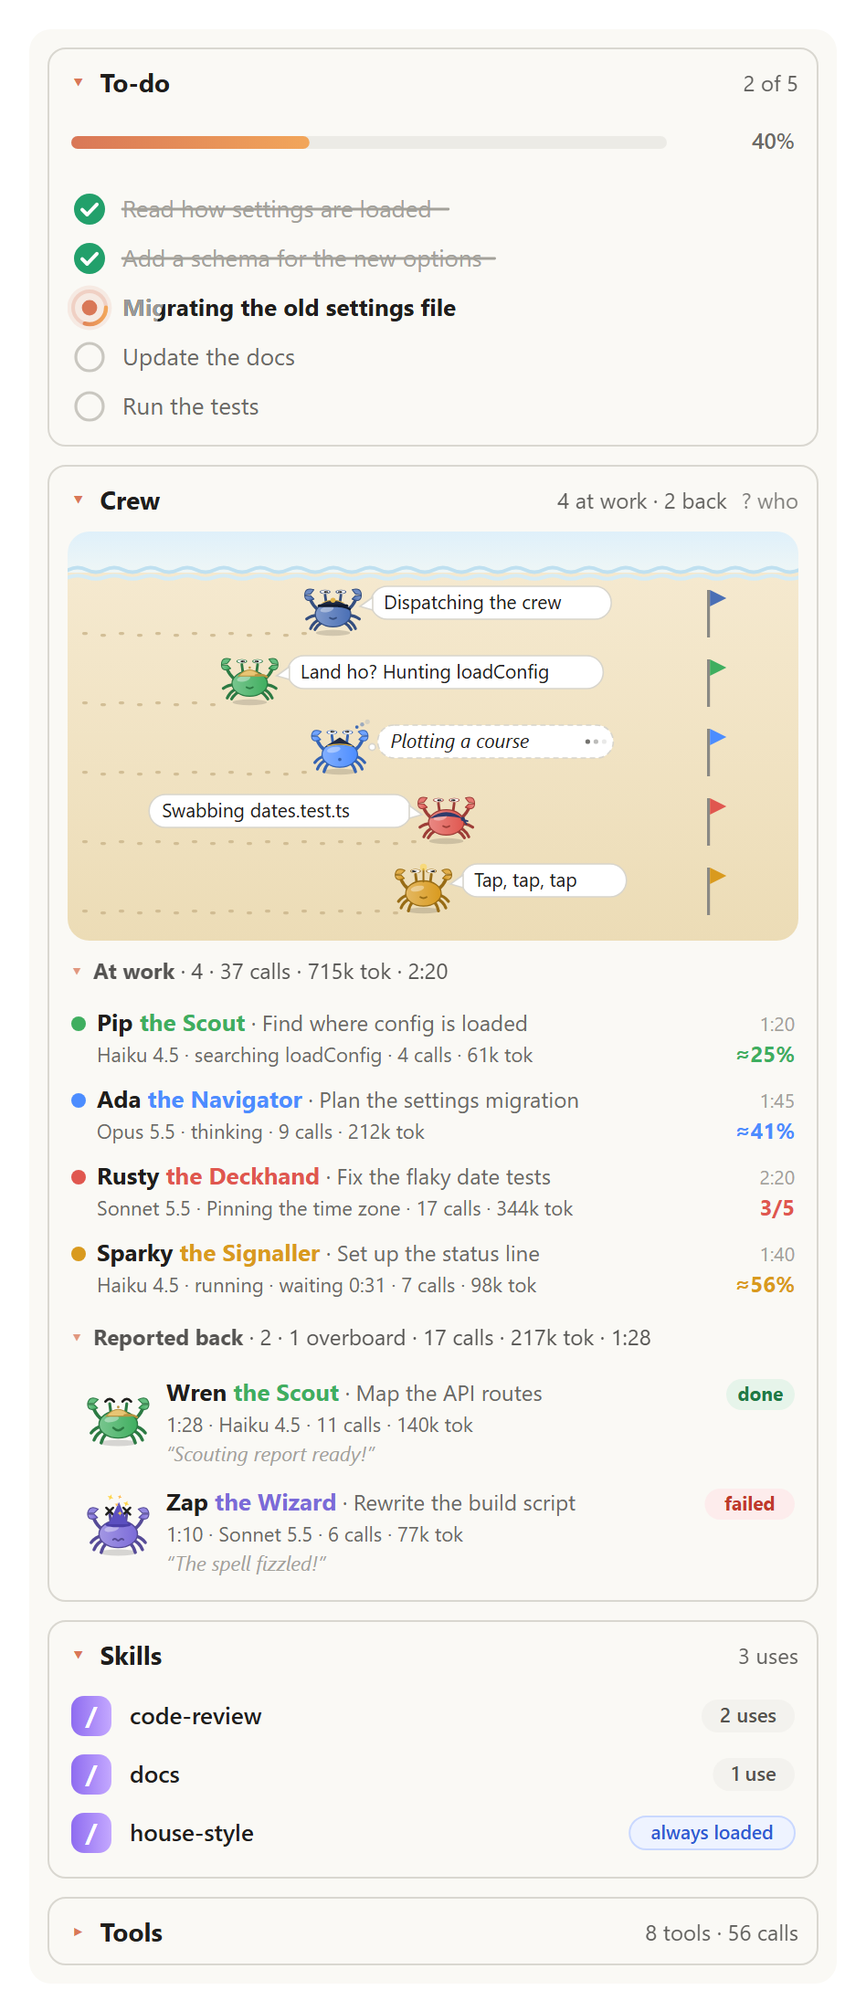
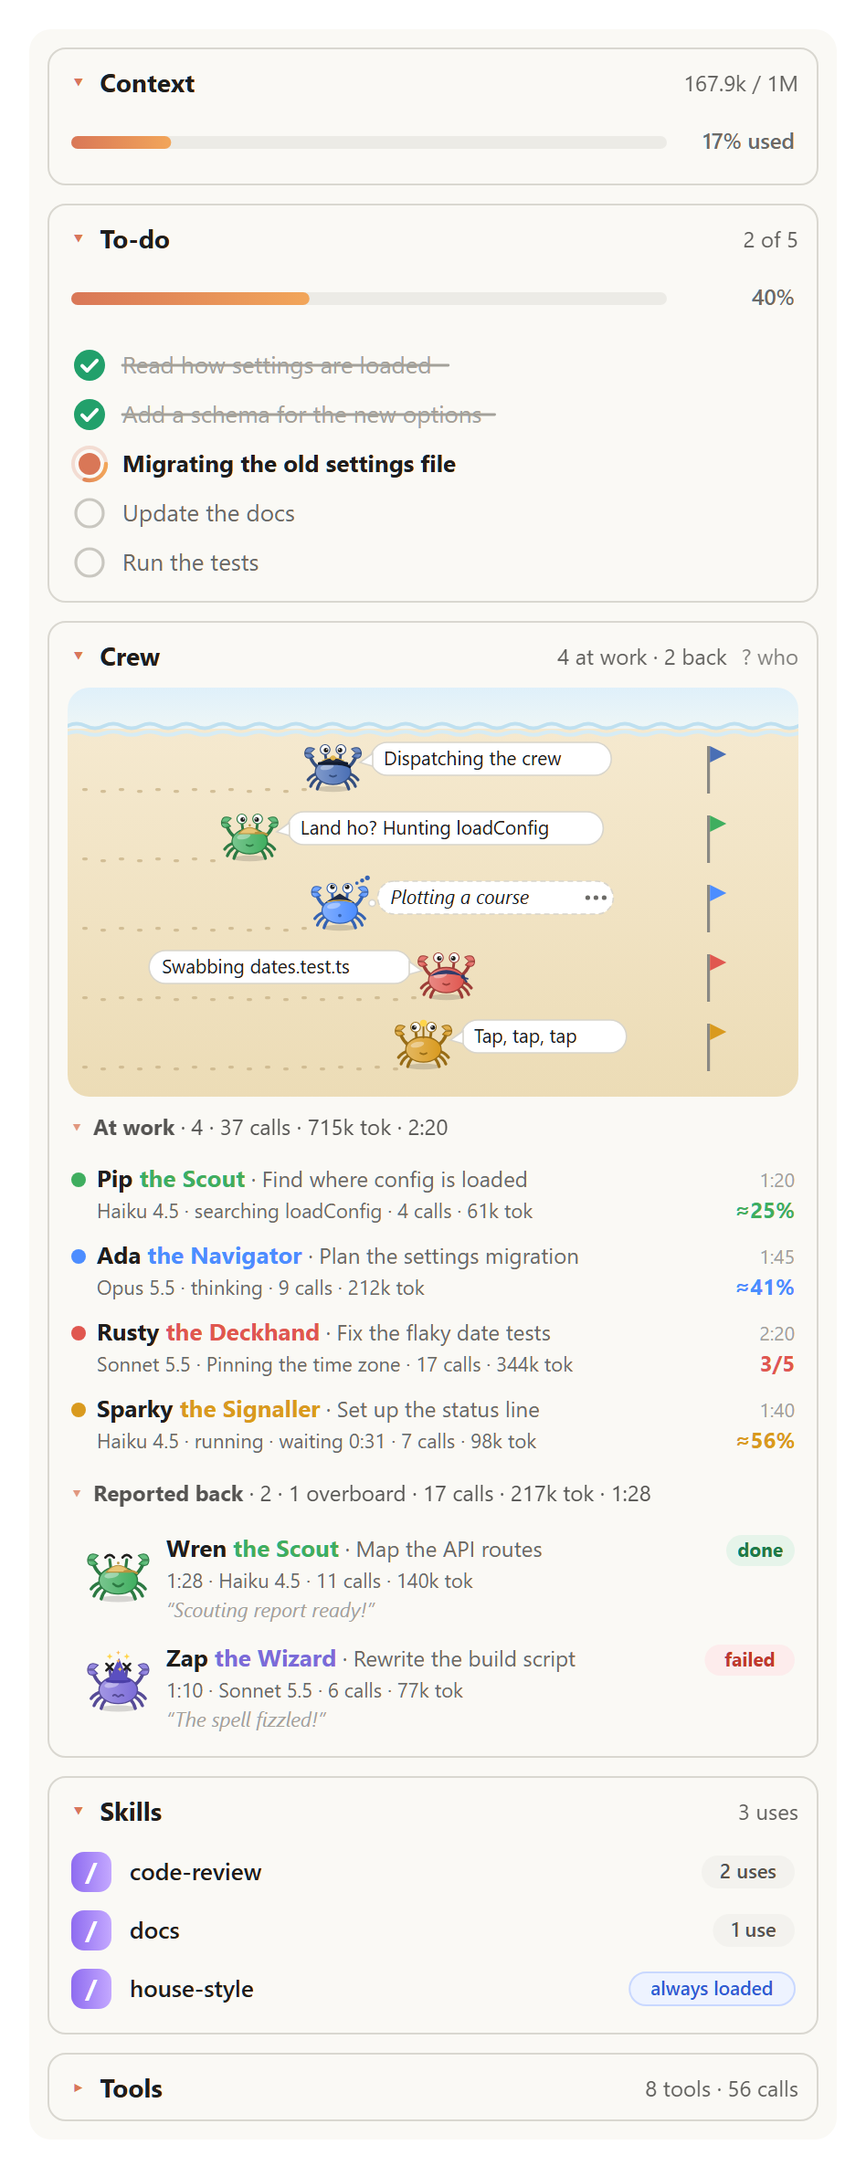
session-lens: a Context section above To-do (0.6.0)
How full the context window is, as the status line reads it: tokens of
the window by the title (167.9k / 1M) and a bar like the to-do list's
with the share used (17% used), grown from the last reading. Read with
$.session.usage() (no breakdown, so free) at session start, after each
model request of the main conversation, when /lens opens the pane and
after /clear. The marketplace entry, root README and README describe
it, and the README's pane screenshot shows it.

Changed region(s): [[0.0612, 0.0309, 0.9483, 0.9882], [0.8259, 0.0309, 0.9177, 0.1544], [0.7954, 0.0309, 0.8259, 0.0618]]

diff --git a/plugins/session-lens/hooks/register.tsx b/plugins/session-lens/hooks/register.tsx
@@ -1,7 +1,7 @@
 import { atom, read, update } from 'claude-code'
 import type { EngineInterface, Register, Timer } from 'claude-code'
 
-import type { LensActivity, LensCaptain, LensCrab, LensSection, LensSort, LensView } from '../types'
+import type { LensActivity, LensCaptain, LensContext, LensCrab, LensSection, LensSort, LensView } from '../types'
 import { LINGER_MS, activityOf, characterKeyOf, crewNameOf, detailOf, outcomeOf, todoPatch, usageTokens, withChange } from './crew'
 import {
   DEFAULT_VIEW,
@@ -44,6 +44,16 @@ const crewBandSince = atom({ plugin: 'session-lens', key: 'crewBandSince' } as c
 const IDLE: LensCaptain = { isBusy: false, activity: 'other', detail: '', lastActiveAt: 0 }
 const captain = atom({ plugin: 'session-lens', key: 'captain' } as const, IDLE)
 const raceSince = atom({ plugin: 'session-lens', key: 'raceSince' } as const, 0)
+const context = atom({ plugin: 'session-lens', key: 'context' } as const, null as LensContext | null)
+
+/** Reads how full the context window is (free: no breakdown); the bar grows from the reading before. */
+async function readUsage($: EngineInterface): Promise<void> {
+  const c = (await $.session.usage()).context
+  if (c.tokens === undefined || !c.window) return
+  const tokens = c.tokens
+  const at = await $.clock.now()
+  await update($, context, cur => (cur && cur.tokens === tokens && cur.window === c.window ? cur : { tokens, window: c.window, before: cur?.tokens ?? 0, at }))
+}
 const planRows = atom({ plugin: 'session-lens', key: 'planRows' } as const, [] as string[])
 
 /** The plan tools whose rows the transcript draws: the lens's To-do shows the same list. */
@@ -207,6 +217,7 @@ async function startOver($: EngineInterface): Promise<void> {
   await update($, crew, () => ({}))
   await update($, isSeeded, () => true)
   await readContext($)
+  await readUsage($)
 }
 
 /** Opens the lens at its crew: the pane, with the Crew section unfolded if it was folded. */
@@ -234,6 +245,7 @@ export const register: Register = (on, options) => {
       }),
     )
     await safely(() => loadLayout($))
+    void safely(() => readUsage($))
     void safely(() => seed($))
     void safely(() => readContext($))
     // While a crab works, a redraw now and then: one left without a call for a while is drawn waiting.
@@ -298,6 +310,8 @@ export const register: Register = (on, options) => {
       await touchCrab($, agentId, () => ({ activity: 'think', detail: '', lastActiveAt: at }))
     })
     const result = yield* next(e)
+    // Each answered request of the main conversation moves the context meter.
+    if (!agentId) await safely(() => readUsage($))
     const usage = result.usage
     if (agentId && usage)
       await safely(() => touchCrab($, agentId, m => ({ model: usage.model || m.model, tokens: (m.tokens ?? 0) + usageTokens(usage), steps: (m.steps ?? 0) + 1 })))
@@ -401,6 +415,7 @@ export const register: Register = (on, options) => {
     }
     await openPane($)
     void safely(() => readContext($))
+    void safely(() => readUsage($))
     return { text: 'Session lens opened.' }
   }).catch(() => ({ text: 'The session lens could not open just now.' }))
 
@@ -501,6 +516,7 @@ export const register: Register = (on, options) => {
       moves: await read($, moves),
       crew: await read($, crew),
       captain: await read($, captain),
+      context: await read($, context),
       raceSince: await read($, raceSince),
       showQuips: isQuipsOn,
       // Read so the timer's tick redraws the pane; the drawing itself goes by the clock.

diff --git a/plugins/session-lens/tests/session-lens.test.ts b/plugins/session-lens/tests/session-lens.test.ts
@@ -5,7 +5,7 @@ import type { On, RenderElement } from 'claude-code'
 import { skillListSvg, stepSvg, toolListSvg } from '../hooks/art'
 import { bandSvg, beachSvg, crewListSvg, legendSvg } from '../hooks/crabs'
 import { BASE_MARK, characterKeyOf, crabMeta, crewNameOf, crewOrder, crewSummary, duration, legendOf, listTotals, modelName, outcomeOf, poseOf, progressOf, quipOf, tokensLabel, withChange } from '../hooks/crew'
-import { DEFAULT_LAYOUT, DESKTOP_PLAN, DESKTOP_WRAP_UP, EMPTY_PLAN, countTool, groupLabel, listOrders, markAlways, movesAfter, parseLayout, planAfter, skillOfPath, stampSteps, toolGroups, toolRows } from '../hooks/track'
+import { DEFAULT_LAYOUT, DESKTOP_PLAN, contextPercent, contextSize, DESKTOP_WRAP_UP, EMPTY_PLAN, countTool, groupLabel, listOrders, markAlways, movesAfter, parseLayout, planAfter, skillOfPath, stampSteps, toolGroups, toolRows } from '../hooks/track'
 import type { LensCrab, LensPlan, LensTool } from '../types'
 
 const PANE = {
@@ -1194,6 +1194,55 @@ describe('the showQuips setting', () => {
       expect(await shows(ui, /Pip/)).toBe(true)
       expect(await shows(ui, /“/)).toBe(false)
       expect(await shows(ui, /Pip: /)).toBe(false)
+      await ui.unmount()
+    }
+  })
+})
+
+// ---------- the context window ----------
+
+describe('the context window', () => {
+  test('sizes read like the status line’s: 167.9k, 1M, 200k; the share as a whole percentage', async () => {
+    expect([contextSize(167_900), contextSize(1_000_000), contextSize(200_000), contextSize(940)]).toEqual(['167.9k', '1M', '200k', '940'])
+    expect(contextPercent(167_900, 1_000_000)).toBe(17)
+  })
+
+  test('a section above To-do: tokens of the window by its title, a bar of the share used; it folds', async ($, on) => {
+    mock.clock(on, { now: 10_000 })
+    mock.store(on)
+    let tokens: number | undefined
+    on('session.usage', () => ({ value: { startedAt: 0, context: { tokens, window: 1_000_000 }, rateLimits: [] } }) as never)
+    on('turn.step', async function* (_, e) {
+      return { turnId: e.turnId, index: e.index, answer: '', toolUses: [] } as never
+    })
+    const step = async () => {
+      const stream = $.turn.step({ turnId: 'turn-1', index: 1, model: 'claude-opus-5-5', messageCount: 3 } as never)
+      for await (const _ of stream) {
+        // Nothing streams beneath the test.
+      }
+      await stream.result
+    }
+    // No reading yet: the title alone.
+    await step()
+    for (const surface of SURFACES) {
+      const ui = await $.ui.mount({ ...PANE, surface })
+      expect(await ui.find({ key: 'sec-context' })).toBeDefined()
+      expect(await shows(ui, /% used/)).toBe(false)
+      await ui.unmount()
+    }
+    // A request of the main conversation answered: the meter reads the window.
+    tokens = 167_900
+    await step()
+    for (const surface of SURFACES) {
+      const ui = await $.ui.mount({ ...PANE, surface })
+      expect(await shows(ui, /167\.9k \/ 1M/)).toBe(true)
+      expect(await shows(ui, /17% used/)).toBe(true)
+      // Above To-do.
+      const keys = (await ui.findAll({})).map(f => (f as { key?: string }).key).filter(k => k === 'sec-context' || k === 'sec-todo')
+      expect(keys[0]).toBe('sec-context')
+      await ui.press({ key: 'sec-context' })
+      expect(await shows(ui, /17% used/)).toBe(false)
+      await ui.press({ key: 'sec-context' })
       await ui.unmount()
     }
   })

diff --git a/plugins/session-lens/hooks/view.tsx b/plugins/session-lens/hooks/view.tsx
@@ -2,11 +2,11 @@
 // The desktop draws each row as an animated SVG; the terminal draws the same rows in text.
 import type { Elements, RenderElement } from 'claude-code'
 
-import type { LensCaptain, LensCrab, LensMove, LensPlan, LensSection, LensSkill, LensSort, LensTool, LensView } from '../types'
-import { ACCENT, barShare, groupTileSvg, groupTotalSvg, hueOf, skillListSvg, stepSvg, todoProgressSvg, toolListSvg } from './art'
+import type { LensCaptain, LensContext, LensCrab, LensMove, LensPlan, LensSection, LensSkill, LensSort, LensTool, LensView } from '../types'
+import { ACCENT, barShare, contextSvg, groupTileSvg, groupTotalSvg, hueOf, skillListSvg, stepSvg, todoProgressSvg, toolListSvg } from './art'
 import { bandSvg, beachSvg, crewListSvg, legendSvg } from './crabs'
 import { CAPTAIN_NAME, captainQuip, characterOf, crabMeta, crewLists, crewSummary, duration, isOnBeach, legendOf, listTotals, progressLabel, progressOf, quipOf } from './crew'
-import { doneOf, isGroupOpen, plural, skillList, toolGroups, toolRows } from './track'
+import { contextPercent, contextSize, doneOf, isGroupOpen, plural, skillList, toolGroups, toolRows } from './track'
 import type { ToolGroup, ToolRow } from './track'
 
 type UI = Elements['terminal'] | Elements['desktop'] | Elements['vscode'] | Elements['mobile']
@@ -40,6 +40,8 @@ export type Ctx = {
   crew: Record<string, LensCrab>
   /** The main thread, played by the captain. */
   captain: LensCaptain
+  /** How full the context window is; null until the first reading. */
+  context: LensContext | null
   /** When the current race began: the lists show its crabs alone. */
   raceSince: number
   /** The crabs say their lines: bubbles on the beach, last lines in the lists (the `showQuips` setting). */
@@ -100,6 +102,33 @@ function section(ctx: Ctx, id: LensSection, title: string, right: RenderElement 
       {rows.length ? rows : null}
     </Box>
   )
+}
+
+// ---------- context ----------
+
+/** How full the context window is: tokens used of the window by the title, and a bar of the share used. */
+function contextSection(ctx: Ctx): RenderElement {
+  const { Box, Text } = ctx.ui
+  const c = ctx.context
+  const right = c ? `${contextSize(c.tokens)} / ${contextSize(c.window)}` : null
+  return section(ctx, 'context', 'Context', right, () => {
+    if (!c) return []
+    if (ctx.isPictured) {
+      const w = rowPixels(ctx.columns)
+      return [picture(ctx, 'context-bar', contextSvg(w, c.tokens, c.window, c.before, latest(c.at, sectionAt(ctx, 'context')), ctx.now), w)!]
+    }
+    const share = Math.min(1, c.tokens / Math.max(1, c.window))
+    const bar = cells(share, Math.max(8, ctx.columns - 16))
+    return [
+      <Box key="context-bar" flexDirection="row" gap={1}>
+        <Text>
+          <Text color={ACCENT}>{bar.on}</Text>
+          <Text dimColor>{bar.off}</Text>
+        </Text>
+        <Text dimColor>{`${contextPercent(c.tokens, c.window)}% used`}</Text>
+      </Box>,
+    ]
+  })
 }
 
 // ---------- to-do ----------
@@ -466,6 +495,7 @@ export function paneView(ctx: Ctx): RenderElement {
   const { Box } = ctx.ui
   return (
     <Box flexDirection="column" gap={1}>
+      {contextSection(ctx)}
       {todoSection(ctx)}
       {crewSection(ctx)}
       {skillsSection(ctx)}

diff --git a/plugins/session-lens/types/index.d.ts b/plugins/session-lens/types/index.d.ts
@@ -51,7 +51,10 @@ export type LensSkill = {
 export type LensMove = { from: string[]; to: string[]; at: number }
 
 /** The pane's sections, and the two lists inside the crew (`crewWork`, `crewBase`), each folding on its own. */
-export type LensSection = 'todo' | 'crew' | 'crewWork' | 'crewBase' | 'skills' | 'tools'
+export type LensSection = 'context' | 'todo' | 'crew' | 'crewWork' | 'crewBase' | 'skills' | 'tools'
+
+/** How full the context window is, as the status line reads it, and the reading before: the bar grows from there. */
+export type LensContext = { tokens: number; window: number; before: number; at: number }
 export type LensSort = 'count' | 'name' | 'recent'
 
 /** What a crab was last seen doing, from its last call or model request. */
@@ -145,6 +148,8 @@ declare module 'claude-code' {
       crew: Record<string, LensCrab>
       /** The main thread, always on the beach. */
       captain: LensCaptain
+      /** The context window's last reading; null until the first. */
+      context: LensContext | null
       /**
        * When the current race began: a crab set out with no one at work. The crew lists show the crabs of
        * this race alone, so the list of those back starts empty with each race.

diff --git a/plugins/session-lens/hooks/art.ts b/plugins/session-lens/hooks/art.ts
@@ -200,6 +200,21 @@ export function todoProgressSvg(w: number, done: number, total: number, doneBefo
   return { svg: doc(w, h, body), height: h, alt: `${done} of ${total} steps done` }
 }
 
+// ---------- context ----------
+
+/** How full the context window is: the to-do list's bar, grown from the last reading, and the share used. */
+export function contextSvg(w: number, tokens: number, window: number, before: number, at: number, now: number): Drawn {
+  const h = 30
+  const used = Math.min(1, tokens / Math.max(1, window))
+  const label = `${Math.round(used * 100)}% used`
+  const labelW = 64
+  const body =
+    gradient('slcg', ACCENT, ACCENT_2) +
+    bar('slcb', 2, 12, w - labelW - 10, 7, Math.min(1, before / Math.max(1, window)), used, 'url(#slcg)', false, at, now) +
+    `<text${attrs('dim', once('fade', at, now))} x="${w - 2}" y="19" font-size="12" font-weight="600" text-anchor="end">${esc(label)}</text>`
+  return { svg: doc(w, h, body), height: h, alt: `Context ${label}: ${tokens} of ${window} tokens` }
+}
+
 /**
  * One step: its mark, then its text wrapped beside it. It comes in after `enterAt` (it joined the list, or
  * its section opened), and draws its check and strike after its own `changedAt`.

diff --git a/plugins/session-lens/hooks/track.ts b/plugins/session-lens/hooks/track.ts
@@ -9,7 +9,7 @@ import { crewOrder } from './crew'
 export const DEFAULT_LAYOUT: LensLayout = { folded: ['tools'], groupsOpen: false, groupExceptions: [], isGrouped: true, sort: 'count', isLegendOpen: false }
 export const DEFAULT_VIEW: LensView = { ...DEFAULT_LAYOUT, filter: '', toggledAt: {}, layoutAt: 0 }
 
-const SECTIONS: LensSection[] = ['todo', 'crew', 'crewWork', 'crewBase', 'skills', 'tools']
+const SECTIONS: LensSection[] = ['context', 'todo', 'crew', 'crewWork', 'crewBase', 'skills', 'tools']
 const SORTS: LensSort[] = ['count', 'recent', 'name']
 
 /** What of a view is kept across sessions. */
@@ -293,3 +293,10 @@ export function movesAfter(moves: Record<string, LensMove>, orders: Record<strin
 }
 
 export const plural = (n: number, word: string) => `${n} ${word}${n === 1 ? '' : 's'}`
+
+/** A token count as the context meter reads it: `167.9k`, `1M`, `200k`. */
+export const contextSize = (n: number) =>
+  n >= 1e6 ? `${+(n / 1e6).toFixed(1)}M` : n >= 1e3 ? `${+(n / 1e3).toFixed(1)}k` : String(Math.round(n))
+
+/** The share of the window in use, as a whole percentage. */
+export const contextPercent = (tokens: number, window: number) => Math.round((tokens / Math.max(1, window)) * 100)

diff --git a/plugins/session-lens/README.md b/plugins/session-lens/README.md
@@ -1,15 +1,16 @@
 # session-lens
 
-A pane that shows what this session is doing and has used: Claude's to-do list, its crew of subagents as animated crabs racing on a beach, and the skills and tools it used. A crew band above the prompt follows the subagents while they work. Open it with `/lens`; in the desktop app it opens by itself the first time a session uses a tool or a skill.
+A pane that shows what this session is doing and has used: how full the context window is, Claude's to-do list, its crew of subagents as animated crabs racing on a beach, and the skills and tools it used. A crew band above the prompt follows the subagents while they work. Open it with `/lens`; in the desktop app it opens by itself the first time a session uses a tool or a skill.
 
 It works with the standard agents and tools and with any MCP server or connector: no skills, prompts or tool calls are needed from the model, as the mod watches the session itself.
 
-![The session lens: To-do, Crew, Skills and Tools](docs/pane.png)
+![The session lens: Context, To-do, Crew, Skills and Tools](docs/pane.png)
 
 ## What it does
 
-The pane has four sections, each folding on its own with its arrow or title:
+The pane has five sections, each folding on its own with its arrow or title:
 
+- **Context**: how full the context window is.
 - **To-do**: Claude's current task list, with how far along it is.
 - **Crew**: Captain Clawd (the main thread) and a crab for each subagent, racing toward their flags on a beach, with a row each for the crabs at work and those that reported back.
 - **Skills**: each skill used, with its count.
@@ -18,6 +19,10 @@ The pane has four sections, each folding on its own with its arrow or title:
 The counts are for this session only: only tools and skills that were actually used appear. Calls made by subagents count too. The to-do list follows the main conversation only. Your layout (which sections and groups are open, grouped or flat, the sort) is kept for your next session.
 
 In the desktop app the rows are animated drawings, in light and dark. Each animation plays once, when its row changes, and the rest of the pane stays still. The terminal draws the same sections in text.
+
+### Context
+
+How full the context window is, as the status line reads it: the tokens the last response was answered over, out of the model's window, by the title (`167.9k / 1M`), and under it a bar like the to-do list's with the share used (`17% used`). It is read again each time the main conversation's model answers, so it follows compaction and `/clear`, and the bar grows from the last reading. Until the first answer it shows only its title.
 
 ### To-do and Skills
 
@@ -90,9 +95,9 @@ While a crew is out, a **crew band** sits just above the prompt: its crabs, who 
 
 ### Using the pane
 
-The first time, **To-do**, **Crew** and **Skills** are open and **Tools** is closed, showing only its summary ("8 tools · 56 calls"). Open it to see the tools grouped by server, sorted by **Most used**, with every server collapsed. A section with nothing in it yet shows only its header.
+The first time, **Context**, **To-do**, **Crew** and **Skills** are open and **Tools** is closed, showing only its summary ("8 tools · 56 calls"). Open it to see the tools grouped by server, sorted by **Most used**, with every server collapsed. A section with nothing in it yet shows only its header.
 
-- Press a section's arrow or title (**▾ To-do**, **▾ Crew**, **▾ Skills**, **▸ Tools**) to close or open that section; in **Crew**, **▾ At work** and **▾ Reported back** fold the same way.
+- Press a section's arrow or title (**▾ Context**, **▾ To-do**, **▾ Crew**, **▾ Skills**, **▸ Tools**) to close or open that section; in **Crew**, **▾ At work** and **▾ Reported back** fold the same way.
 - What you change is kept for your next session: open and closed sections, lists and groups, grouped or flat, the sort, and whether who's who is open. The filter always starts empty.
 
 ## Install
@@ -138,6 +143,7 @@ Set them in `/config`, or for a mod loaded with `--plugin-dir`, in `~/.claude/se
 
 ## How it works
 
+- The context meter reads `$.session.usage()`, the status line's figures, with no breakdown, so the call is free. It is read when the session starts, after each model request of the main conversation (`turn.step`), when `/lens` opens the pane, and after `/clear`.
 - A `tool.call` hook lets each call run, then counts it unless it was denied. It never changes the call, and a failure inside it is swallowed.
 - The to-do list is rebuilt from the plan tools the main conversation calls: `TodoWrite`, `TaskCreate` and `TaskUpdate`, and the desktop app's own task list (`update_plan`, with `advance`, `done` and `start`). The desktop app's closing `wrap_up` call ticks every step off.
 - The crew comes from the subagents' own events. `agent.spawn` casts a crab by agent type: `general-purpose` is a Deckhand, `Explore` a Scout, `Plan` a Navigator, `claude-code-guide` a Professor, `statusline-setup` a Signaller and `fork` an Understudy. Any other type is always dealt the same one of the Cook, Sleuth, Wizard and Diver. `agent.spawn` also notes the subagent's model. A subagent's `turn.step` sets its crab thinking, and once the request is answered adds its tokens (input, output and cache reads and writes, as crab-crew counts them) to the crab and updates its model; a run whose requests were not seen one by one takes its totals from `turn.complete`. Its `tool.call`s say what it is doing and feed its to-do progress, and its `turn.complete` says how the run ended. A crab that is done stays on the beach for 3 s, and a timer then notes the crew's new order so it flies to the list. The main conversation's own `turn.step`, `tool.call` and `turn.complete` do the same for the captain. While a crab works, the pane is redrawn every 5 s so a crab left without a call is drawn waiting. The band above the prompt is a `ui.render` hook on `AbovePrompt`: it shows the crabs that set out or came back since the last prompt sent with no one out, and draws what Claude Code and other mods put in the band under its own, as the band is shared; it leaves the band to them when there are none, or when a survey is up. The cast, its lines and the progress estimate are adapted from this repository's [crab-crew](../crab-crew) mod. A crab's walk along its lane is pinned to when its progress moved, as every animation here is.

diff --git a/README.md b/README.md
@@ -11,7 +11,7 @@ This repository is also a plugin marketplace, so you can install any mod with on
 | [crab-crew](plugins/crab-crew) | A crew panel for subagents. Each agent type is played by a crab character with its own role, look and lines, animated by its status and progress. Works with the standard agents; no skills needed. |
 | [obsidian-cli-mcp-tool-stats](plugins/obsidian-cli-mcp-tool-stats) | Usage stats for the [obsidian-cli-mcp](https://github.com/marwansaab/obsidian-cli-mcp) server: calls, estimated tokens, errors and latency per tool, with hints on heavy results, repeat calls, error patterns and unused schemas. Kept across sessions. |
 | [review-desk](plugins/review-desk) | A review desk panel. Claude publishes open questions, decisions, findings, write plans, animated explainers and read-throughs; you answer, ask questions and submit inside Claude Code, and the outcome goes back to Claude to apply. |
-| [session-lens](plugins/session-lens) | A pane for the session in hand (`/lens`): Claude's to-do list, its subagents as a crew of animated crabs walking a beach, and the skills and tools it used, each section folding on its own. A crew band above the prompt shows the subagents' progress. Tools are grouped by MCP server or listed flat, sorted and filtered. **Replaces crab-crew:** disable or don't install crab-crew alongside it. |
+| [session-lens](plugins/session-lens) | A pane for the session in hand (`/lens`): how full the context window is, Claude's to-do list, its subagents as a crew of animated crabs walking a beach, and the skills and tools it used, each section folding on its own. A crew band above the prompt shows the subagents' progress. Tools are grouped by MCP server or listed flat, sorted and filtered. **Replaces crab-crew:** disable or don't install crab-crew alongside it. |
 
 ## Install
 
